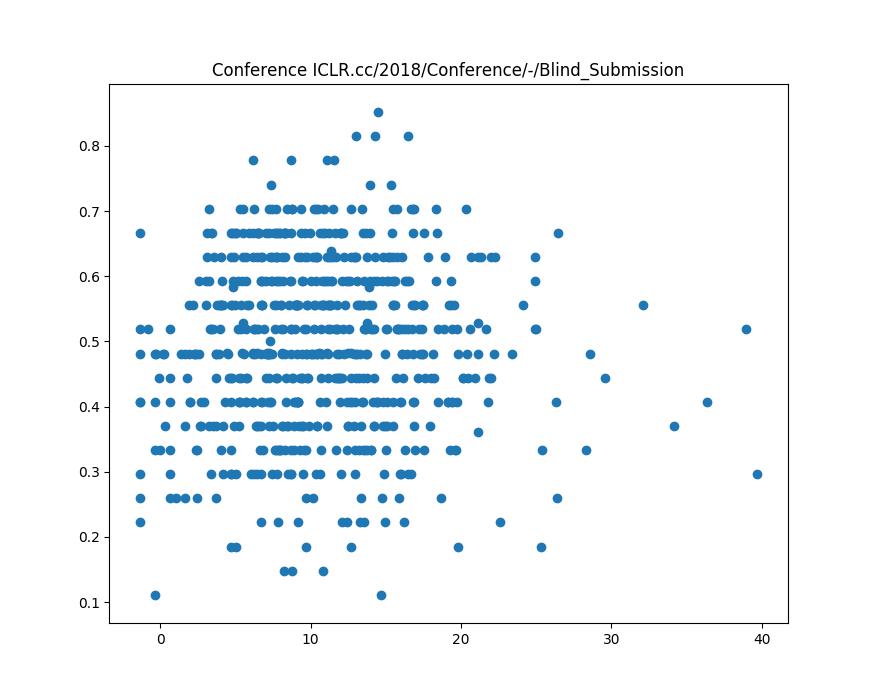
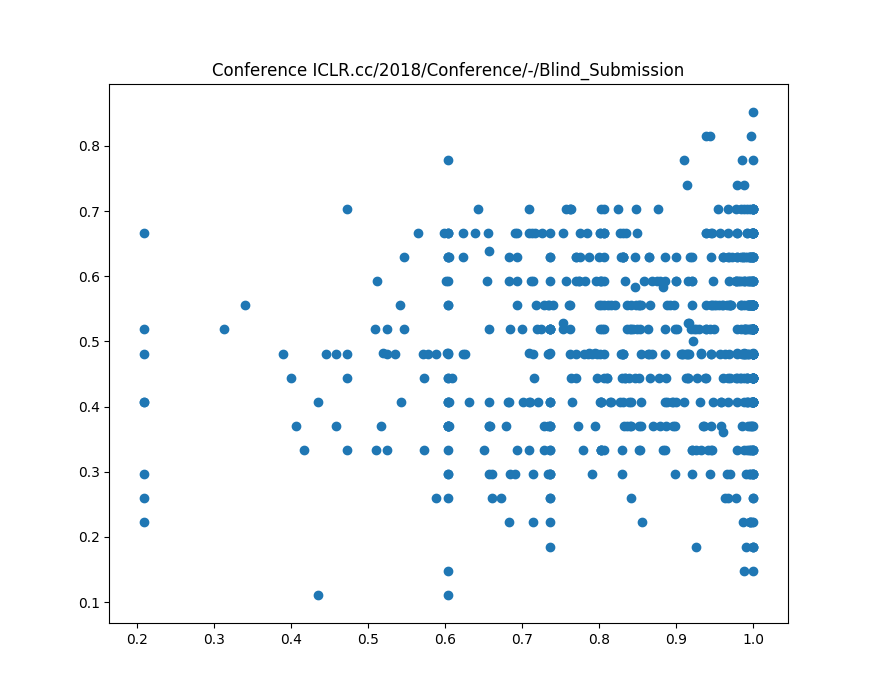
use sigmoid function

diff --git a/experiments/flat.py b/experiments/flat.py
@@ -15,16 +15,18 @@ from sklearn.linear_model import Ridge
 from sklearn.svm import SVR
 from sklearn.ensemble import RandomForestRegressor as RFR
 from sklearn.model_selection import cross_val_score
+from scipy.special import expit
+
 
 def collaboration(paper):
-    '''Decide if paper is a collaboration between multiple institutions.
+    """Decide if paper is a collaboration between multiple institutions.
 
     Do this by looking at email domains, ignoring commercial providers.
-    '''
+    """
     ignore = {"gmail", "yahoo", "hotmail"}
     domains = set()
 
-    for a in paper['authorids']:
+    for a in paper["authorids"]:
         d = a.split("@")[-1]
         if any(x in d for x in ignore):
             continue
@@ -36,11 +38,13 @@ def collaboration(paper):
 def process(d):
     return [d[k] for k in sorted(d)]
 
+
 def citations(a_id):
     try:
-        return int(authors[a_id]['scopus']['_json']['coredata']['citation-count'])
+        return int(authors[a_id]["scopus"]["_json"]["coredata"]["citation-count"])
     except (KeyError, TypeError):
         return 0
+
 
 with open("../openreview-dataset/results/authors.json", "r") as f:
     authors = json.load(f)
@@ -73,9 +77,11 @@ for p in papers:
     target[id] = np.mean([r["norm_rating"] for r in reviews[id]])
     data[id]["popularity_avg"] = np.mean(
         [
-            (prestigious(authors[a_id]["world_rank"]) - 0.5) * 2
-            + citation_scaler.transform([[citations(a_id)]])
-            + experience_scaler.transform([[experience(authors[a_id])]])
+            expit(
+                (prestigious(authors[a_id]["world_rank"]) - 0.5) * 2
+                + citation_scaler.transform([[citations(a_id)]])
+                + experience_scaler.transform([[experience(authors[a_id])]])
+            )
             for a_id in filter(None, p["author_keys"])
         ]
     )
@@ -89,57 +95,59 @@ lr = LinearRegression()
 scores = cross_val_score(lr, data, target, cv=5)
 print("Accuracy: %0.2f (± %0.2f)" % (scores.mean(), scores.std() * 2))
 
-keys = list(range(0,len(confs.keys())))
+keys = list(range(0, len(confs.keys())))
 conf_keys = list(confs.keys())
 
 acc = np.zeros((len(confs.keys()),))
 blind = np.zeros((len(confs.keys()),))
-for i in range(0,len(confs.keys())):
+for i in range(0, len(confs.keys())):
     d_temp = []
 
-    for j in range(0,len(data)):
-        if data[j,1] == i:
-            d_temp.append(list(data[j,:])+[target[j]])
-    if len(d_temp)>0:
+    for j in range(0, len(data)):
+        if data[j, 1] == i:
+            d_temp.append(list(data[j, :]) + [target[j]])
+    if len(d_temp) > 0:
         d_temp = np.array(d_temp)
         lr = RFR()
-        lr = lr.fit(np.array(d_temp)[:,2].reshape(-1,1), np.array(d_temp)[:,3])
-        scores = lr.score( np.array(d_temp)[:,2].reshape(-1,1), np.array(d_temp)[:,3])#, cv=5)            
-        acc[i] = 1-scores
-        blind[i] = np.mean(d_temp[:,0])
-        fig = plt.figure(figsize=(8.75,7))
-        plt.scatter(np.array(d_temp)[:,2], np.array(d_temp)[:,3])
-        plt.title('Conference %s'%(conf_keys[i]))
-        fig.savefig('output/status_review_conference_%d.png'%(keys[i]))
-    
-#plt.scatter(range(0,len(acc)),acc,c=blind)
+        lr = lr.fit(np.array(d_temp)[:, 2].reshape(-1, 1), np.array(d_temp)[:, 3])
+        scores = lr.score(
+            np.array(d_temp)[:, 2].reshape(-1, 1), np.array(d_temp)[:, 3]
+        )  # , cv=5)
+        acc[i] = 1 - scores
+        blind[i] = np.mean(d_temp[:, 0])
+        fig = plt.figure(figsize=(8.75, 7))
+        plt.scatter(np.array(d_temp)[:, 2], np.array(d_temp)[:, 3])
+        plt.title("Conference %s" % (conf_keys[i]))
+        fig.savefig("output/status_review_conference_%d.png" % (keys[i]))
+
+# plt.scatter(range(0,len(acc)),acc,c=blind)
 
 collector_1 = []
 label_0 = []
 collector_0 = []
 label_1 = []
-keys = list(range(0,len(confs.keys())))
-for i in range(0,len(acc)):
+keys = list(range(0, len(confs.keys())))
+for i in range(0, len(acc)):
     if blind[i] == 1.0:
         collector_1.append(acc[i])
         label_1.append(keys[i])
     else:
         collector_0.append(acc[i])
         label_0.append(keys[i])
-        
-stupid_ATE = (np.mean(collector_1) - np.mean(collector_0))
-fig = plt.figure(figsize=(8.75,7))
-position_0 = np.random.normal(1,0.05,size=len(collector_0))
-position_1 = np.random.normal(2,0.05,size=len(collector_1))
-plt.scatter(position_0,collector_0,alpha=0.4,s=150)
-plt.scatter(position_1,collector_1,alpha=0.4,s=150)
-plt.violinplot(collector_0,positions=[1])
-plt.violinplot(collector_1,positions=[2])
+
+stupid_ATE = np.mean(collector_1) - np.mean(collector_0)
+fig = plt.figure(figsize=(8.75, 7))
+position_0 = np.random.normal(1, 0.05, size=len(collector_0))
+position_1 = np.random.normal(2, 0.05, size=len(collector_1))
+plt.scatter(position_0, collector_0, alpha=0.4, s=150)
+plt.scatter(position_1, collector_1, alpha=0.4, s=150)
+plt.violinplot(collector_0, positions=[1])
+plt.violinplot(collector_1, positions=[2])
 for i in range(len(label_0)):
-    plt.annotate(label_0[i],(position_0[i],collector_0[i]))
+    plt.annotate(label_0[i], (position_0[i], collector_0[i]))
 for i in range(len(label_1)):
-    plt.annotate(label_1[i],(position_1[i],collector_1[i]))
-plt.title('Fairness vs Review')
-fig.savefig('output/Fairness_Review.png')
+    plt.annotate(label_1[i], (position_1[i], collector_1[i]))
+plt.title("Fairness vs Review")
+fig.savefig("output/Fairness_Review.png")
 
 print(stupid_ATE)
